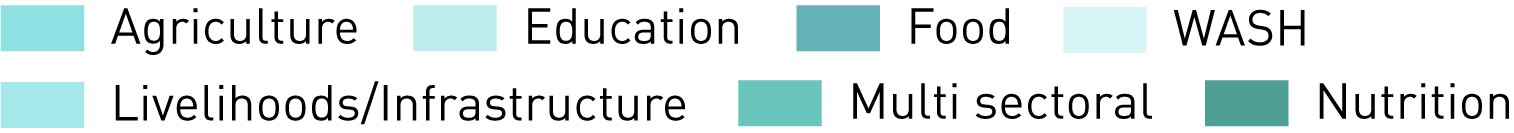
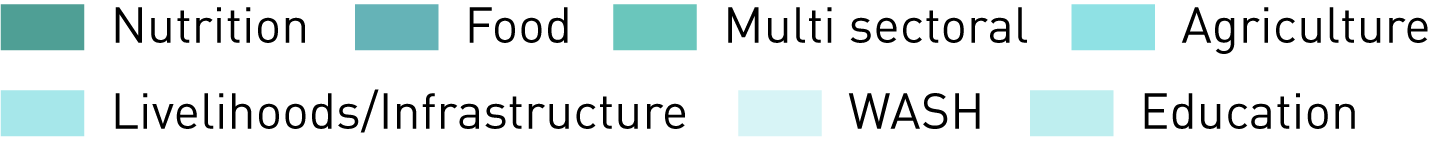
legend-re-size

diff --git a/index.html b/index.html
@@ -145,7 +145,7 @@
                             <h4 style="margin-bottom: 20px">Modality</h4>
                             <div style="margin-bottom: 40px"; id="hdx-3W-M" class="hdx-3w-chart"></div>
                             <div id="legend1">
-                                <img style="height: 10px; padding-left: 3px" class="img-responsive" src='image/piechart1-legend.png'>
+                                <img style="height: 12px; padding-left: 3px" class="img-responsive" src='image/piechart1-legend.png'>
                             </div>
                         </div>
                         <div class="col-md-12">
@@ -153,7 +153,7 @@
                             <div style="margin-bottom: 60px"; id="hdx-3W-VBSOA" class="hdx-3w-chart"></div>
                             <div style="margin-bottom: 35px"; id="hdx-3W-M" class="hdx-3w-chart"></div>
                             <div id="legend2">
-                                <img style="height: 28px; padding-left: 3px" class="img-responsive" src='image/piechart2-legend.png'>
+                                <img style="height: 30px; padding-left: 3px" class="img-responsive" src='image/piechart2-legend.png'>
                             </div>
                         </div>
                         <div class="col-md-12">
@@ -161,7 +161,7 @@
                             <div style="margin-bottom: 10px"; id="hdx-3W-TP" class="hdx-3w-chart"></div>
                             <div style="margin-bottom: 35px"; id="hdx-3W-M" class="hdx-3w-chart"></div>
                             <div id="legend3">
-                                <img style="height: 10px; padding-left: 3px" class="img-responsive" src='image/piechart3-legend.png'>
+                                <img style="height: 12px; padding-left: 3px" class="img-responsive" src='image/piechart3-legend.png'>
                             </div>
                         </div>
                     </div>
